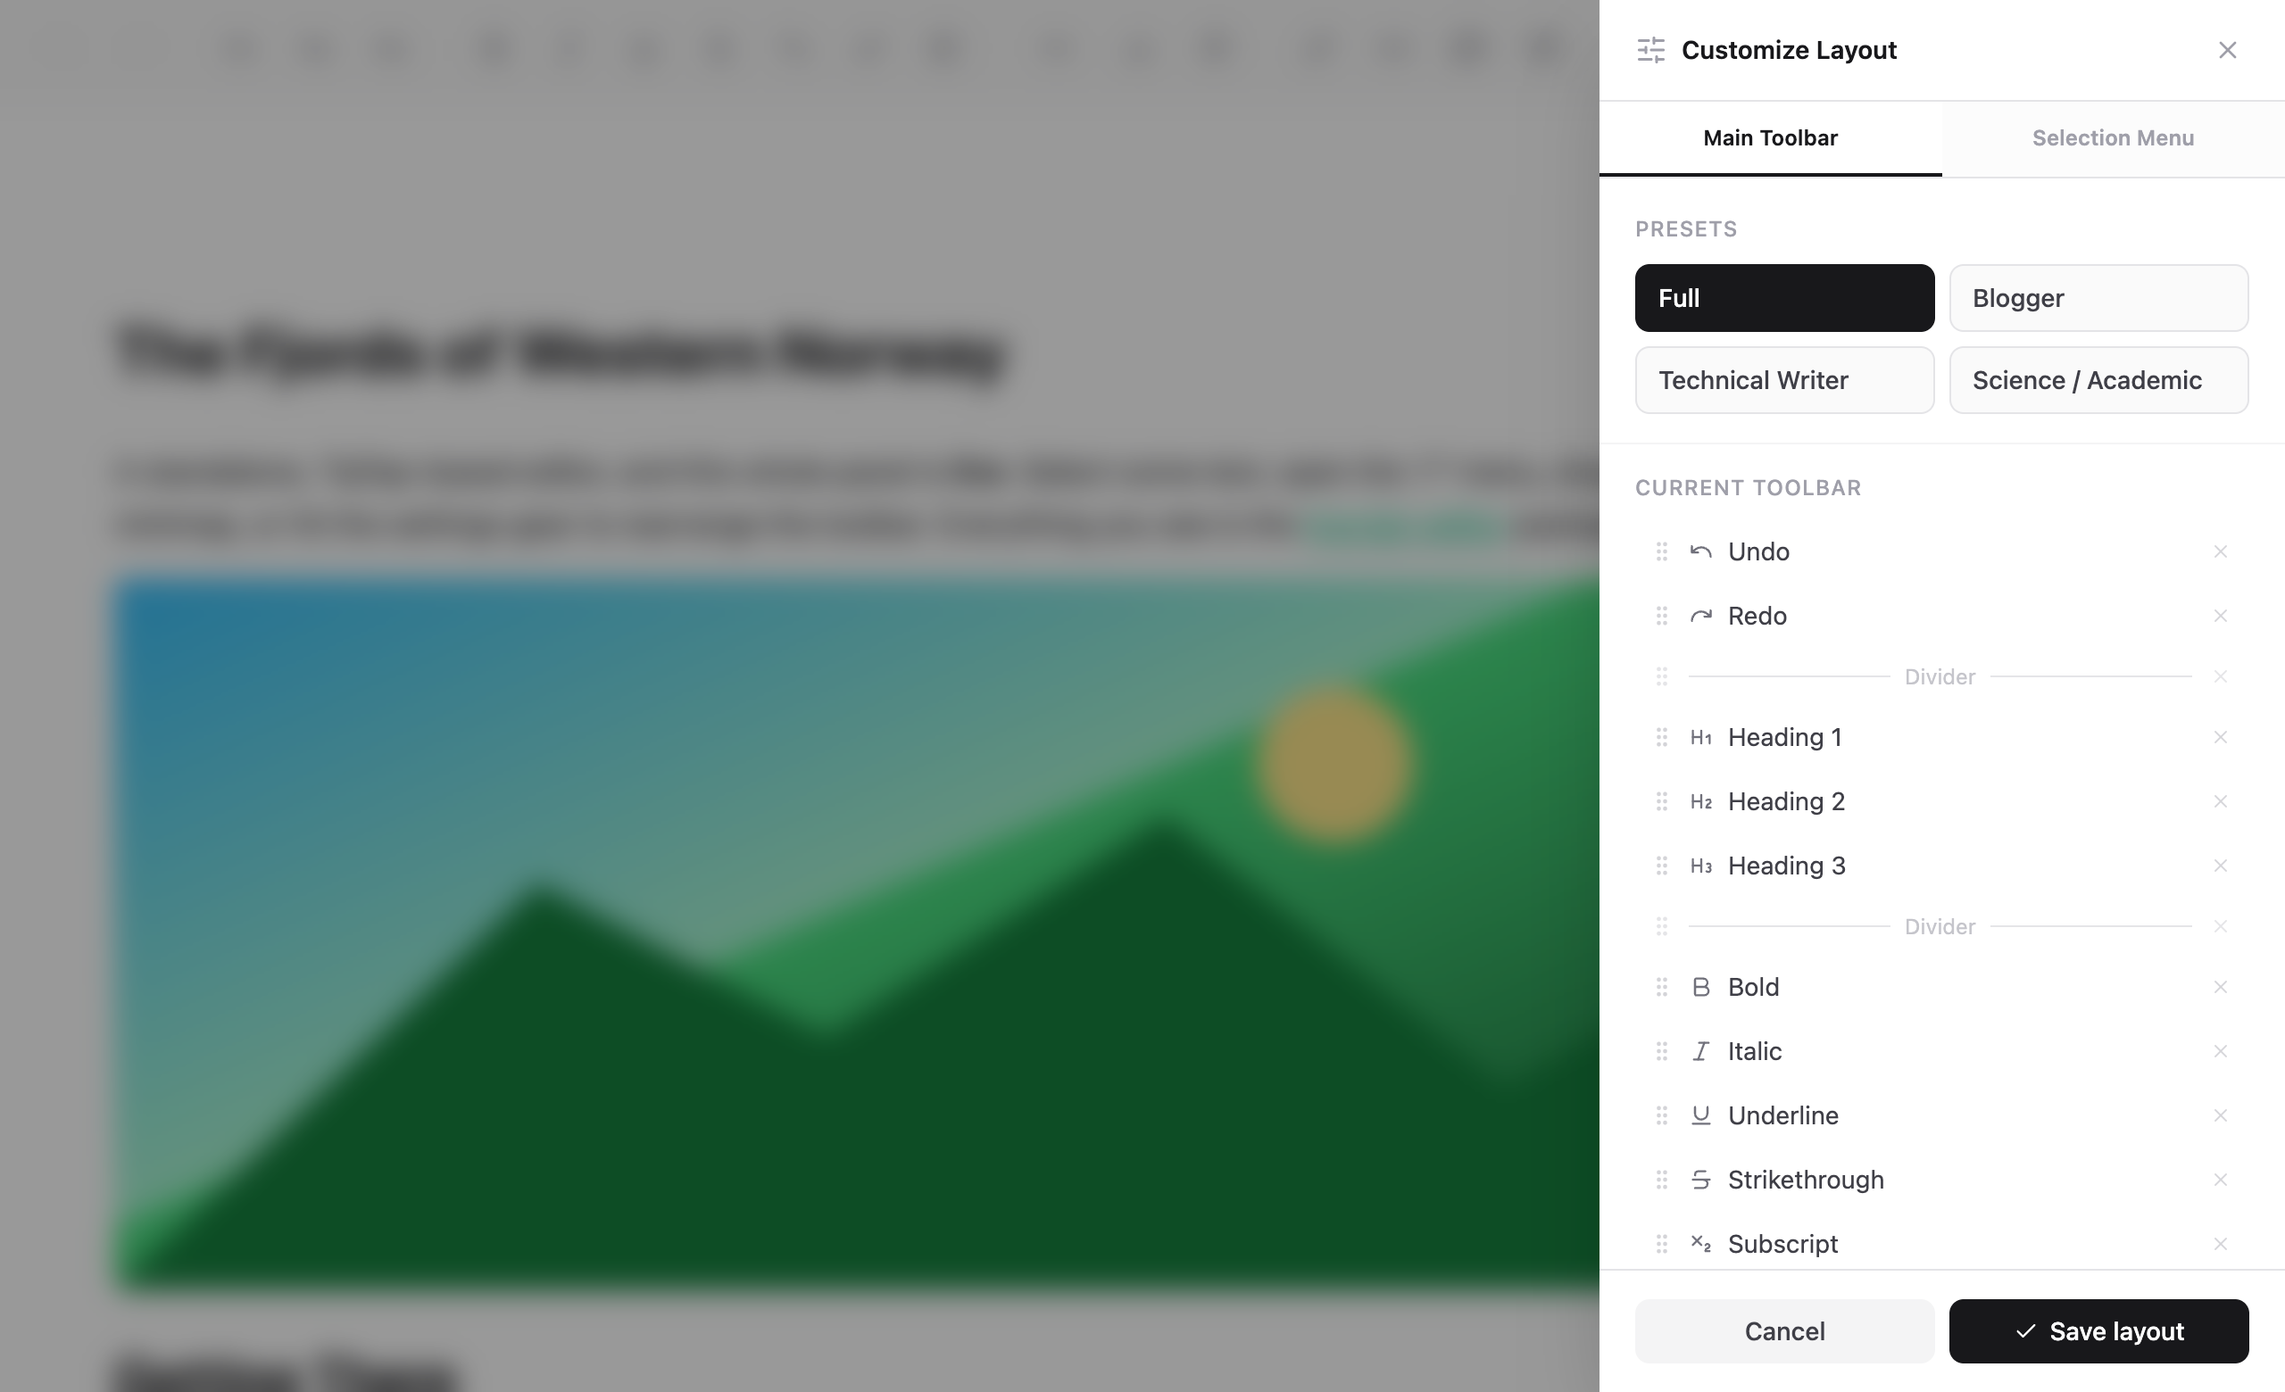
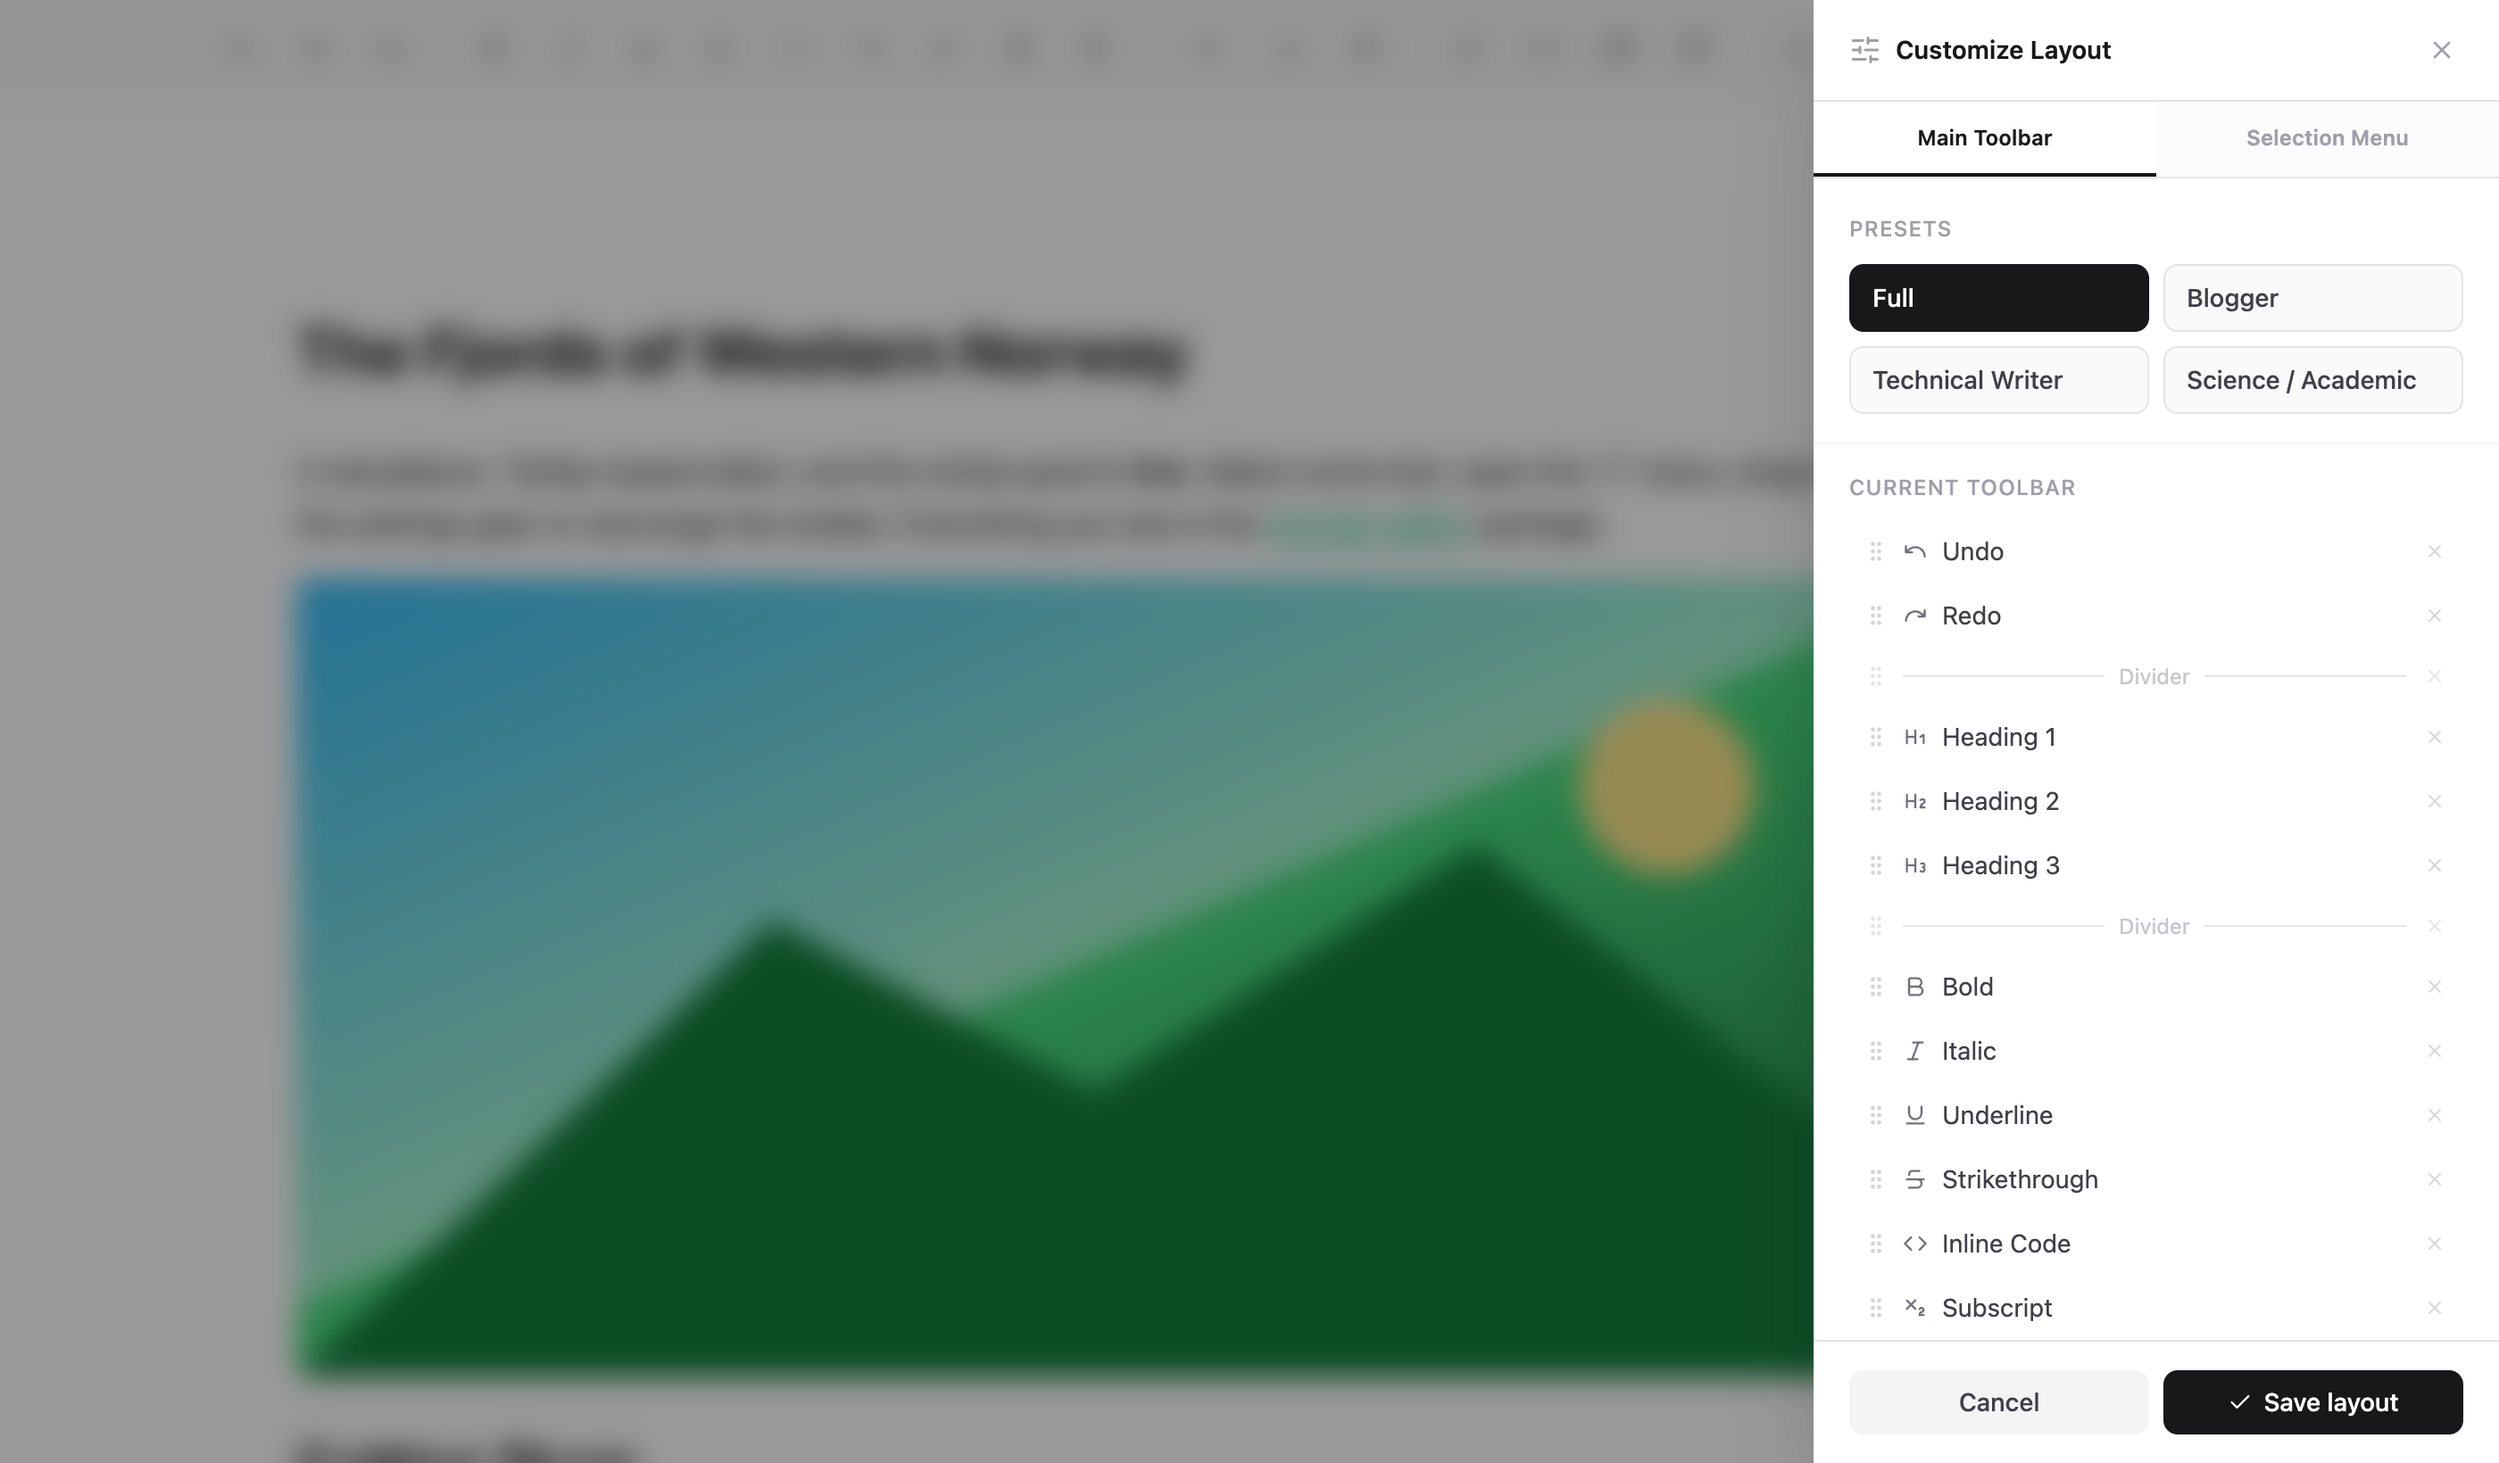
docs(site): collapsible outline/minimap rail (markdownwriter-style) + wider demo
Two demo fixes:

- Replace the tabbed dual-panel sidebar with a markdownwriter-style rail: a slim
  always-present strip of icon buttons (Outline, Minimap) that opens ONE panel at a
  time and collapses to just the rail. Default collapsed, so the editor gets the full
  width and the toolbar folds far less. The panel has a single header (icon + title +
  close); the embedded component's own header is stripped via CSS.
- Widen the live-demo section to min(95vw, 1760px) so on a wide monitor the full toolbar
  fits (with the rail collapsed the editor is ~1700px+, enough for nearly all tools).

Updated the homepage recipe to show the rail pattern, and refreshed the dark/customizer
screenshots. Site-only change; no library code touched. 244 tests still green.

diff --git a/site/index.html b/site/index.html
@@ -204,29 +204,29 @@ npm install react react-dom @tiptap/core \
                 </div>
 
                 <div class="recipe">
-                    <p class="recipe-title">Recipe: the outline &amp; minimap in one sidebar</p>
-                    <p class="recipe-sub">The <code>DocumentOutline</code> and <code>MiniMap</code> are separate exports, so compose them however you like. Here's the tabbed sidebar from the demo above, where only one is open at a time:</p>
+                    <p class="recipe-title">Recipe: an outline &amp; minimap rail</p>
+                    <p class="recipe-sub">The <code>DocumentOutline</code> and <code>MiniMap</code> are separate exports, so compose them however you like. Here's the rail from the demo above: a slim strip of icon buttons that opens one panel at a time (and collapses to just the rail).</p>
                     <pre class="codeblock"><span class="k">import</span> { useState } <span class="k">from</span> <span style="color:var(--brand-strong)">'react'</span>;
 <span class="k">import</span> { DocumentOutline, MiniMap } <span class="k">from</span> <span style="color:var(--brand-strong)">'inscript-editor'</span>;
+<span class="k">import</span> { ListTree, Map } <span class="k">from</span> <span style="color:var(--brand-strong)">'lucide-react'</span>;
 
-<span class="k">function</span> EditorSidebar({ editor }) {
-  <span class="k">const</span> [tab, setTab] = useState(<span style="color:var(--brand-strong)">'outline'</span>);
+<span class="k">function</span> EditorTools({ editor }) {
+  <span class="k">const</span> [view, setView] = useState(<span style="color:var(--brand-strong)">null</span>);  <span class="c">// 'outline' | 'minimap' | null</span>
+  <span class="k">const</span> toggle = (v) =&gt; setView((c) =&gt; (c === v ? <span style="color:var(--brand-strong)">null</span> : v));
   <span class="k">return</span> (
-    &lt;aside className=<span style="color:var(--brand-strong)">"sidebar"</span>&gt;
-      &lt;div className=<span style="color:var(--brand-strong)">"tabs"</span>&gt;
-        &lt;button onClick={() =&gt; setTab(<span style="color:var(--brand-strong)">'outline'</span>)}&gt;Outline&lt;/button&gt;
-        &lt;button onClick={() =&gt; setTab(<span style="color:var(--brand-strong)">'minimap'</span>)}&gt;Minimap&lt;/button&gt;
+    &lt;&gt;
+      {view === <span style="color:var(--brand-strong)">'outline'</span> &amp;&amp; &lt;aside className=<span style="color:var(--brand-strong)">"panel"</span>&gt;&lt;DocumentOutline editor={editor} /&gt;&lt;/aside&gt;}
+      {view === <span style="color:var(--brand-strong)">'minimap'</span> &amp;&amp; &lt;aside className=<span style="color:var(--brand-strong)">"panel"</span>&gt;&lt;MiniMap editor={editor} /&gt;&lt;/aside&gt;}
+      &lt;div className=<span style="color:var(--brand-strong)">"rail"</span>&gt;
+        &lt;button onClick={() =&gt; toggle(<span style="color:var(--brand-strong)">'outline'</span>)}&gt;&lt;ListTree size={16} /&gt;&lt;/button&gt;
+        &lt;button onClick={() =&gt; toggle(<span style="color:var(--brand-strong)">'minimap'</span>)}&gt;&lt;Map size={16} /&gt;&lt;/button&gt;
       &lt;/div&gt;
-
-      {tab === <span style="color:var(--brand-strong)">'outline'</span>
-        ? &lt;DocumentOutline editor={editor} /&gt;
-        : &lt;MiniMap editor={editor} /&gt;}
-    &lt;/aside&gt;
+    &lt;/&gt;
   );
 }</pre>
-                    <p class="recipe-sub">Each component ships its own header and collapse control. To let your tab strip be the only header, hide theirs with one line of CSS:</p>
-                    <pre class="codeblock"><span class="c">/* the outline/minimap is the sidebar's last child; its header is that child's first child */</span>
-.sidebar &gt; :last-child &gt; :first-child { display: none; }</pre>
+                    <p class="recipe-sub">Each component ships its own header and collapse control. To let your panel header be the only one, hide theirs with a line of CSS:</p>
+                    <pre class="codeblock"><span class="c">/* hide the embedded component's own header (its first child) */</span>
+.panel &gt; * &gt; :first-child { display: none; }</pre>
                 </div>
 
                 <p style="text-align:center;margin-top:28px;">

diff --git a/site/demo.css b/site/demo.css
@@ -19,50 +19,69 @@
     min-height: 0;
 }
 
-/* ── Combined right sidebar (outline + minimap, one open at a time) ── */
-.demo-sidebar {
+/* ── Right tools: a narrow rail + one open panel (outline / minimap) ── */
+/* Rail: always present, holds the icon buttons. Collapsed by default, so the editor
+   gets the full width and the toolbar folds far less. */
+.demo-rail {
     flex: none;
-    width: 15rem;
+    width: 44px;
+    display: flex;
+    flex-direction: column;
+    align-items: center;
+    gap: 4px;
+    padding: 8px 0;
+    border-left: 1px solid #e4e4e7;
+    background: #fafafa;
+}
+.dark .demo-rail { border-left-color: #27272a; background: #18181b; }
+.demo-railbtn {
+    width: 32px; height: 32px;
+    display: inline-flex; align-items: center; justify-content: center;
+    border: 0; border-radius: 8px;
+    background: transparent; color: #71717a; cursor: pointer;
+    transition: background-color .12s, color .12s;
+}
+.demo-railbtn:hover { background: #f4f4f5; color: #18181b; }
+.dark .demo-railbtn:hover { background: #27272a; color: #f4f4f5; }
+.demo-railbtn.active { background: color-mix(in srgb, #10b981 15%, transparent); color: #059669; }
+.dark .demo-railbtn.active { color: #34d399; }
+
+/* Panel: opens beside the rail when a tool is active. One width, one header. */
+.demo-panel {
+    flex: none;
+    width: 18rem;
     display: flex;
     flex-direction: column;
     min-height: 0;
     border-left: 1px solid #e4e4e7;
     background: #fafafa;
 }
-.dark .demo-sidebar { border-left-color: #27272a; background: #18181b; }
-
-.demo-sidebar-tabs {
-    display: flex;
-    gap: 4px;
-    padding: 6px;
-    flex: none;
+.dark .demo-panel { border-left-color: #27272a; background: #18181b; }
+.demo-panel-head {
+    display: flex; align-items: center; gap: 8px;
+    height: 40px; padding: 0 12px; flex: none;
     border-bottom: 1px solid #e4e4e7;
+    color: #71717a; font: 700 11px/1 -apple-system, BlinkMacSystemFont, "Segoe UI", system-ui, sans-serif;
+    letter-spacing: 0.06em; text-transform: uppercase;
 }
-.dark .demo-sidebar-tabs { border-bottom-color: #27272a; }
-.demo-sidebar-tabs button {
-    flex: 1;
-    padding: 6px 0;
-    border: 0;
-    border-radius: 7px;
-    background: transparent;
-    color: #71717a;
-    font: 600 11px/1 -apple-system, BlinkMacSystemFont, "Segoe UI", system-ui, sans-serif;
-    letter-spacing: 0.06em;
-    text-transform: uppercase;
-    cursor: pointer;
+.dark .demo-panel-head { border-bottom-color: #27272a; }
+.demo-panel-head span { flex: 1; min-width: 0; }
+.demo-panel-head button {
+    width: 24px; height: 24px; flex: none;
+    display: inline-flex; align-items: center; justify-content: center;
+    border: 0; border-radius: 6px; background: transparent; color: #71717a; cursor: pointer;
 }
-.demo-sidebar-tabs button:hover { color: #18181b; }
-.dark .demo-sidebar-tabs button:hover { color: #f4f4f5; }
-.demo-sidebar-tabs button.active { background: #fff; color: #18181b; box-shadow: 0 1px 2px rgba(16, 24, 40, .08); }
-.dark .demo-sidebar-tabs button.active { background: #27272a; color: #f4f4f5; box-shadow: none; }
+.demo-panel-head button:hover { background: #f4f4f5; color: #18181b; }
+.dark .demo-panel-head button:hover { background: #27272a; color: #f4f4f5; }
 
-.demo-sidebar-body { flex: 1; min-height: 0; position: relative; }
-/* The embedded outline/minimap keep their own chrome; strip it so this sidebar frames
-   them: drop their border/width and hide their internal header (their first child). */
-.demo-sidebar-body > * {
+.demo-panel-body { flex: 1; min-height: 0; position: relative; }
+/* The embedded outline/minimap keep their own chrome; strip it so the panel header is the
+   only one: drop their border/width/bg and hide their internal header (their first child). */
+.demo-panel-body > * {
     border: 0 !important;
     width: 100% !important;
     height: 100% !important;
     max-height: 100% !important;
+    background: transparent !important;
 }
-.demo-sidebar-body > * > :first-child { display: none !important; }
+.demo-panel-body > * > :first-child { display: none !important; }

diff --git a/site/demoApp.jsx b/site/demoApp.jsx
@@ -3,6 +3,7 @@ import i18n from 'i18next';
 import { initReactI18next } from 'react-i18next';
 import '../dist/styles/inscript-editor.css';
 import './demo.css';
+import { ListTree, Map as MapIcon, X } from 'lucide-react';
 import {
     useInscriptEditor, InscriptEditor, MiniMap, DocumentOutline, extractYoutubeId,
     DEFAULT_TOOLBAR_CONFIG, DEFAULT_BUBBLE_CONFIG,
@@ -19,24 +20,52 @@ try {
     localStorage.removeItem('inscript-minimap-collapsed');
 } catch { /* ignore */ }
 
-// One right-hand sidebar that holds BOTH the document outline and the minimap, with a
-// tab strip so only one is open at a time. The library components keep their own chrome,
-// so demo.css hides their internal headers and lets them fill this panel.
+// Right-hand tools, markdownwriter-style: a narrow always-present rail of icon buttons
+// (Outline / Minimap), with ONE panel open at a time beside it. Clicking the active
+// button closes it, collapsing back to just the rail — so the editor gets the full width
+// by default. The library components keep their own chrome, so demo.css hides their
+// internal headers and lets them fill the panel body.
+const PANELS = {
+    outline: { icon: ListTree, title: 'Outline', render: (editor) => <DocumentOutline editor={editor} /> },
+    minimap: { icon: MapIcon, title: 'Minimap', render: (editor) => <MiniMap editor={editor} /> },
+};
+
 function DemoSidebar({ editor }) {
-    const [tab, setTab] = React.useState(() => {
-        try { return new URLSearchParams(location.search).get('tab') === 'minimap' ? 'minimap' : 'outline'; }
-        catch { return 'outline'; }
+    // Default collapsed (rail only); ?tab=outline|minimap opens one (used for screenshots).
+    const [view, setView] = React.useState(() => {
+        try { const p = new URLSearchParams(location.search).get('tab'); return p === 'minimap' || p === 'outline' ? p : null; }
+        catch { return null; }
     });
+    const toggle = (v) => setView((cur) => (cur === v ? null : v));
+    const active = view && PANELS[view];
     return (
-        <div className="demo-sidebar im-demo-aside">
-            <div className="demo-sidebar-tabs" role="tablist">
-                <button role="tab" aria-selected={tab === 'outline'} className={tab === 'outline' ? 'active' : ''} onClick={() => setTab('outline')}>Outline</button>
-                <button role="tab" aria-selected={tab === 'minimap'} className={tab === 'minimap' ? 'active' : ''} onClick={() => setTab('minimap')}>Minimap</button>
+        <>
+            {active && (
+                <aside className="demo-panel im-demo-aside">
+                    <header className="demo-panel-head">
+                        <active.icon size={14} />
+                        <span>{active.title}</span>
+                        <button onClick={() => setView(null)} title="Close" aria-label="Close panel"><X size={15} /></button>
+                    </header>
+                    <div className="demo-panel-body">{active.render(editor)}</div>
+                </aside>
+            )}
+            <div className="demo-rail im-demo-aside" role="toolbar" aria-orientation="vertical" aria-label="Editor panels">
+                {Object.entries(PANELS).map(([id, p]) => (
+                    <button
+                        key={id}
+                        type="button"
+                        className={`demo-railbtn ${view === id ? 'active' : ''}`}
+                        onClick={() => toggle(id)}
+                        title={p.title}
+                        aria-label={p.title}
+                        aria-pressed={view === id}
+                    >
+                        <p.icon size={16} />
+                    </button>
+                ))}
             </div>
-            <div className="demo-sidebar-body">
-                {tab === 'outline' ? <DocumentOutline editor={editor} /> : <MiniMap editor={editor} />}
-            </div>
-        </div>
+        </>
     );
 }
 

diff --git a/site/public/site.css b/site/public/site.css
@@ -43,8 +43,9 @@ body {
 }
 a { color: inherit; text-decoration: none; }
 .wrap { max-width: 1280px; margin: 0 auto; padding: 0 24px; }
-/* The live demo is the star of the page — give it more room than the text sections. */
-.wrap-wide { max-width: 1440px; }
+/* The live demo is the star of the page — let it use most of a wide screen so the full
+   toolbar fits (especially with the tools sidebar collapsed to its rail by default). */
+.wrap-wide { max-width: min(95vw, 1760px); }
 h1, h2, h3 { line-height: 1.15; letter-spacing: -0.02em; margin: 0; }
 
 /* ── Header ── */
